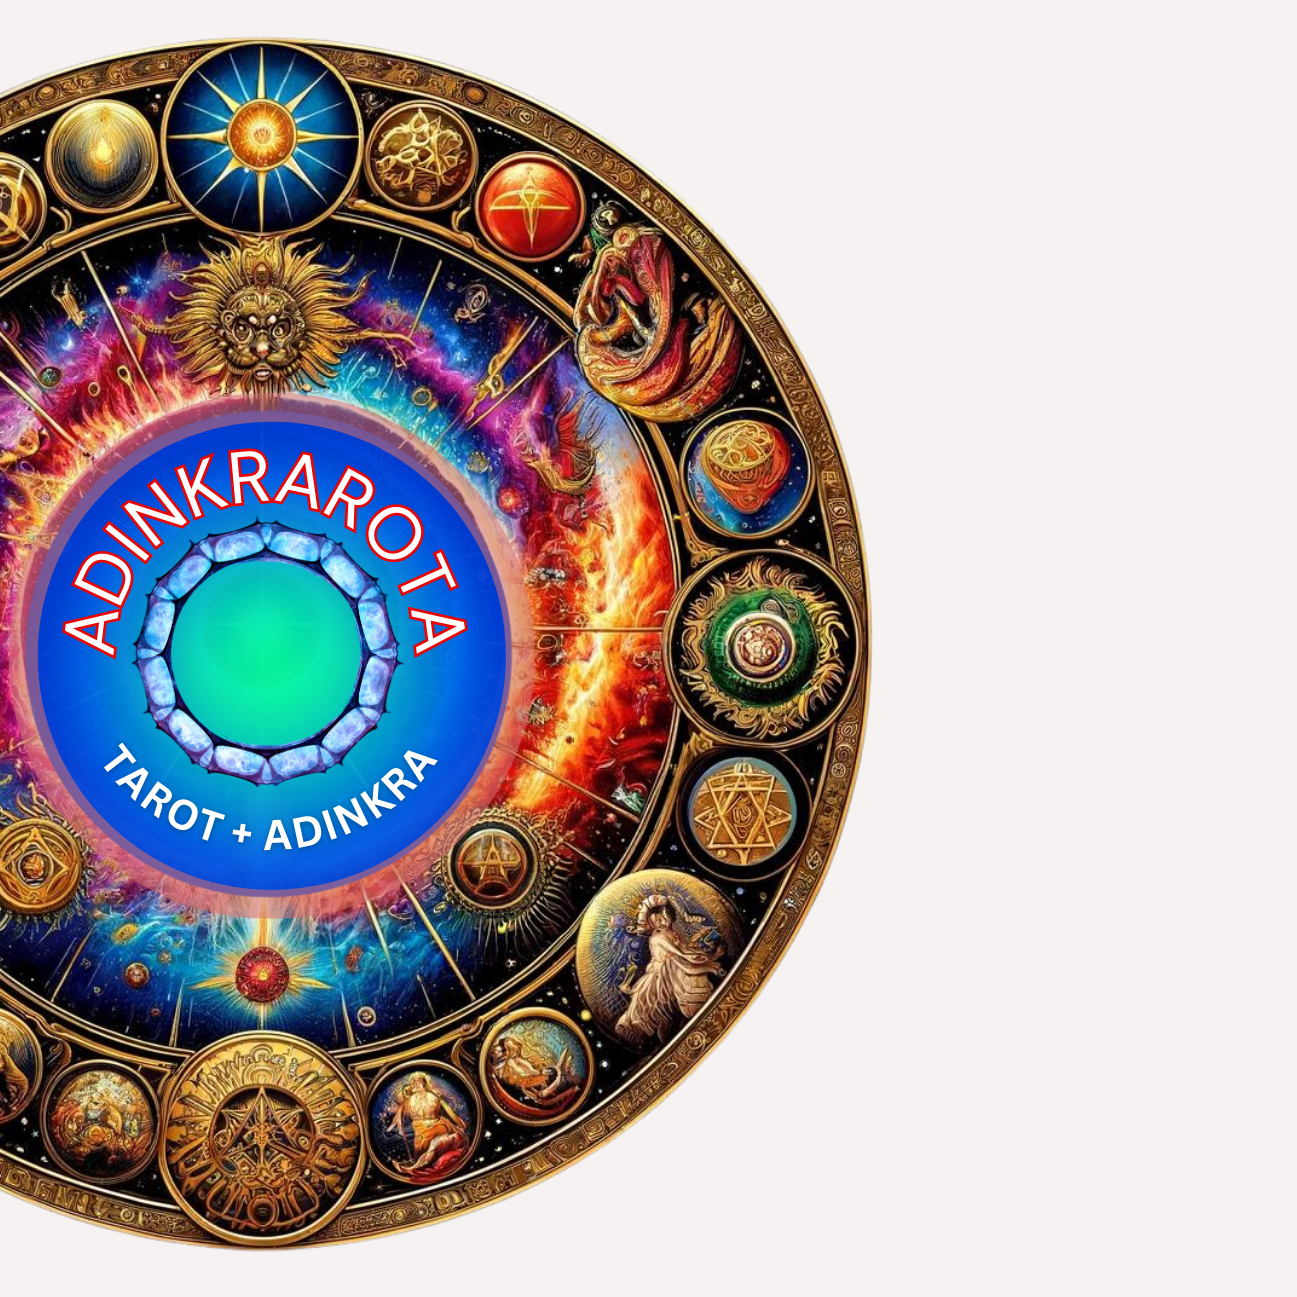
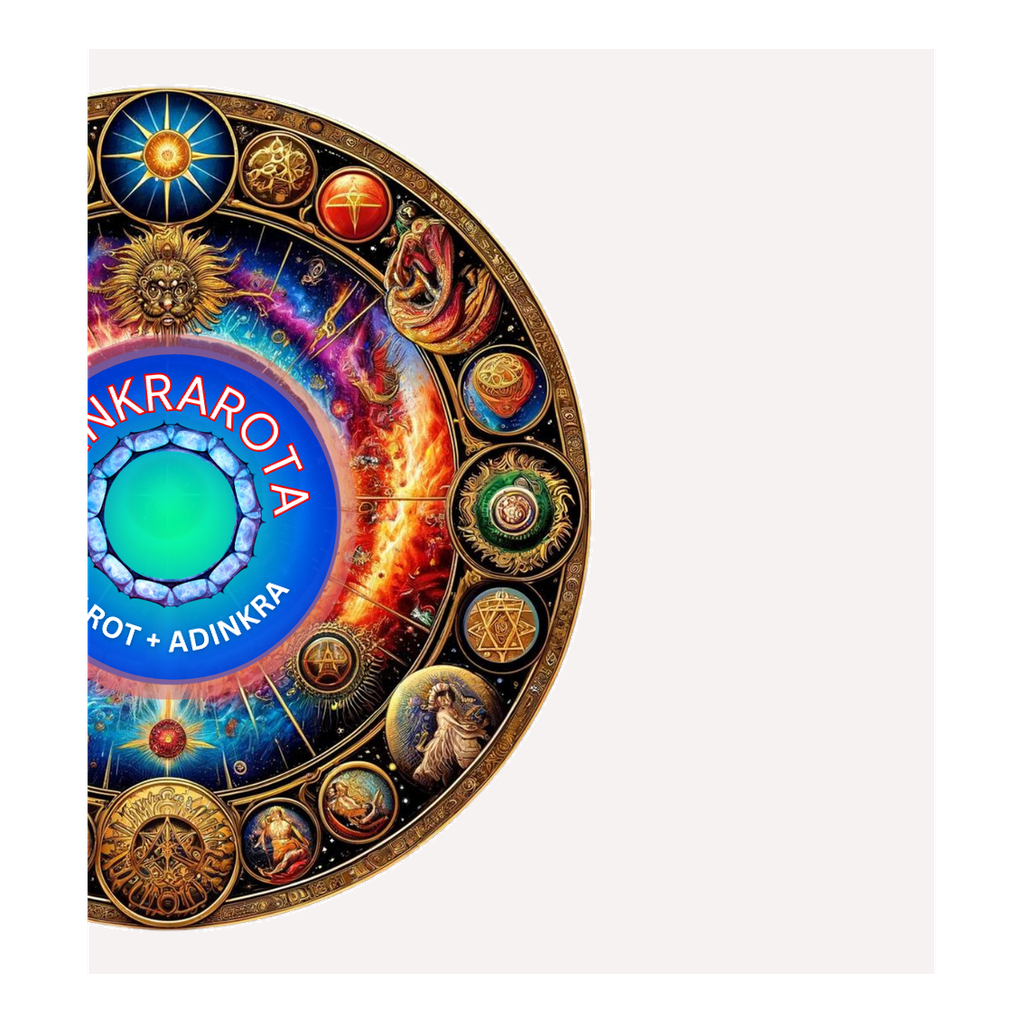
Center hero portal wheels on shared rotation point

diff --git a/components/hero-section.tsx b/components/hero-section.tsx
@@ -167,7 +167,7 @@ export function HeroSection({ onExplore, onReading, onSpinCycle }: HeroSectionPr
               transition={{ duration: 3, repeat: Infinity, ease: "easeInOut", delay: 1 }}
             />
             
-            {/* Levitating Portal Wheels with mouse response */}
+            {/* Levitating Portal Wheels — shared center anchor, separate spin layers */}
             <motion.div
               className="absolute inset-0 overflow-hidden rounded-full"
               animate={{ y: [-6, 6, -6] }}
@@ -176,38 +176,45 @@ export function HeroSection({ onExplore, onReading, onSpinCycle }: HeroSectionPr
                 transform: `translate(${mousePosition.x * 0.08}px, ${mousePosition.y * 0.08}px)`,
               }}
             >
-              {/* Back wheel - 33% larger, spins clockwise */}
-              <motion.div
-                className="absolute left-1/2 top-1/2 h-[133%] w-[133%] -translate-x-1/2 -translate-y-1/2"
-                animate={{ rotate: 360 }}
-                transition={{ duration: 90, repeat: Infinity, ease: "linear" }}
-              >
-                <Image
-                  src="/images/portal-wheel-circle.png"
-                  alt=""
-                  fill
-                  className="object-contain"
-                  aria-hidden
-                />
-              </motion.div>
+              {/* Back wheel — 33% larger, clockwise */}
+              <div className="absolute left-1/2 top-1/2 aspect-square w-[133%] -translate-x-1/2 -translate-y-1/2">
+                <motion.div
+                  className="relative size-full"
+                  style={{ originX: "50%", originY: "50%" }}
+                  animate={{ rotate: 360 }}
+                  transition={{ duration: 90, repeat: Infinity, ease: "linear" }}
+                >
+                  <Image
+                    src="/images/portal-wheel-circle.png"
+                    alt=""
+                    fill
+                    className="object-contain"
+                    aria-hidden
+                  />
+                </motion.div>
+              </div>
 
-              {/* Front wheel - smaller, see-through, spins counter-clockwise */}
-              <motion.div
-                className="absolute left-1/2 top-1/2 h-[82%] w-[82%] -translate-x-1/2 -translate-y-1/2 opacity-70"
-                style={{
-                  filter: 'drop-shadow(0 0 24px rgba(233, 30, 140, 0.25)) drop-shadow(0 0 48px rgba(0, 184, 148, 0.15))',
-                }}
-                animate={{ rotate: -360 }}
-                transition={{ duration: 60, repeat: Infinity, ease: "linear" }}
-              >
-                <Image
-                  src="/images/portal-wheel-circle.png"
-                  alt="ADINKRAROTA - Tarot + Adinkra Portal"
-                  fill
-                  className="object-contain"
-                  priority
-                />
-              </motion.div>
+              {/* Front wheel — smaller, see-through, counter-clockwise */}
+              <div className="absolute left-1/2 top-1/2 aspect-square w-[82%] -translate-x-1/2 -translate-y-1/2 opacity-70">
+                <motion.div
+                  className="relative size-full"
+                  style={{
+                    originX: "50%",
+                    originY: "50%",
+                    filter: "drop-shadow(0 0 24px rgba(233, 30, 140, 0.25)) drop-shadow(0 0 48px rgba(0, 184, 148, 0.15))",
+                  }}
+                  animate={{ rotate: -360 }}
+                  transition={{ duration: 60, repeat: Infinity, ease: "linear" }}
+                >
+                  <Image
+                    src="/images/portal-wheel-circle.png"
+                    alt="ADINKRAROTA - Tarot + Adinkra Portal"
+                    fill
+                    className="object-contain"
+                    priority
+                  />
+                </motion.div>
+              </div>
             </motion.div>
           </motion.div>
         </FloatingElement>
